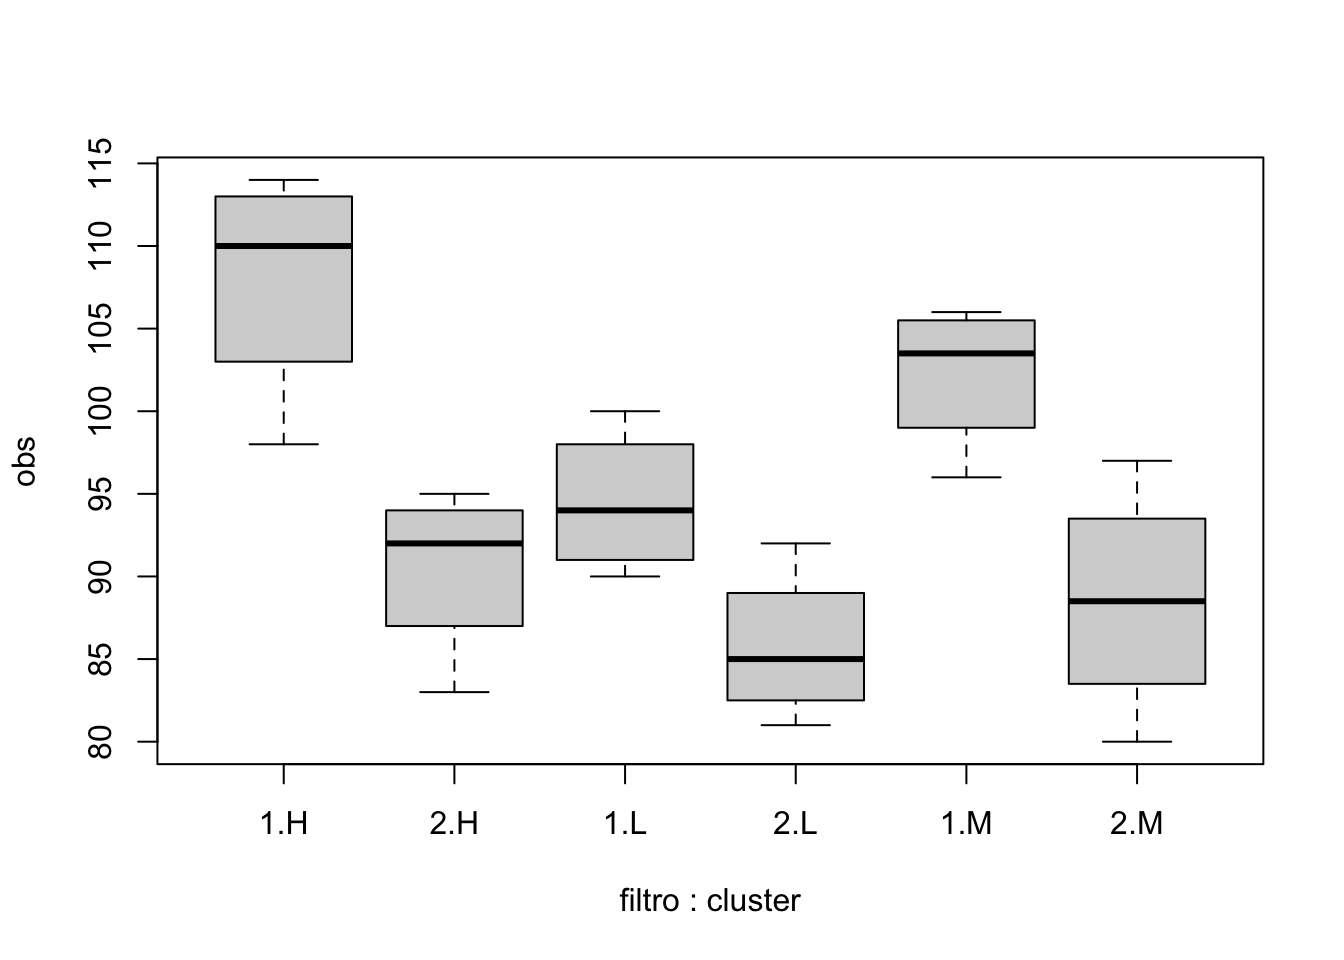
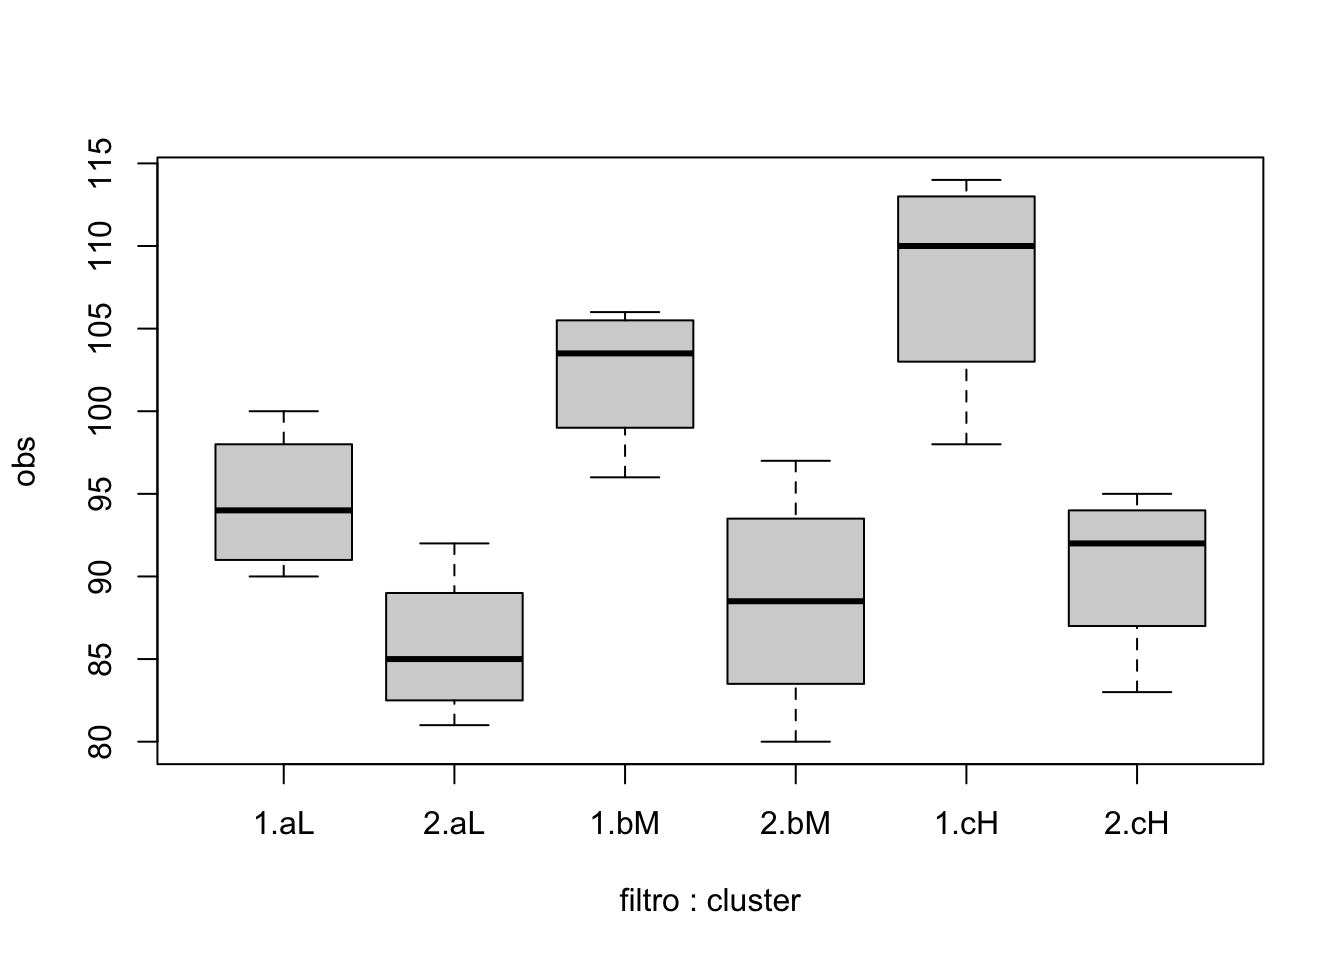
alpha update

diff --git a/DELINEAMENTO/aula2711.html b/DELINEAMENTO/aula2711.html
@@ -119,7 +119,7 @@ pre > code.sourceCode > span > a:first-child::before { text-decoration: underlin
 <span id="cb1-3"><a href="#cb1-3" aria-hidden="true" tabindex="-1"></a>         <span class="dv">114</span>,<span class="dv">93</span>,<span class="dv">112</span>,<span class="dv">91</span>,<span class="dv">108</span>,<span class="dv">95</span>,<span class="dv">98</span>,<span class="dv">83</span>)</span>
 <span id="cb1-4"><a href="#cb1-4" aria-hidden="true" tabindex="-1"></a>operador <span class="ot">&lt;-</span> <span class="fu">as.factor</span>(<span class="fu">rep</span>(<span class="fu">c</span>(<span class="dv">1</span><span class="sc">:</span><span class="dv">4</span>),<span class="at">each=</span><span class="dv">2</span>,<span class="at">times=</span><span class="dv">3</span>))</span>
 <span id="cb1-5"><a href="#cb1-5" aria-hidden="true" tabindex="-1"></a>filtro <span class="ot">&lt;-</span> <span class="fu">as.factor</span>(<span class="fu">rep</span>(<span class="fu">rep</span>(<span class="fu">c</span>(<span class="dv">1</span><span class="sc">:</span><span class="dv">2</span>),<span class="at">times=</span><span class="dv">4</span>),<span class="dv">3</span>))</span>
-<span id="cb1-6"><a href="#cb1-6" aria-hidden="true" tabindex="-1"></a>cluster <span class="ot">&lt;-</span> <span class="fu">as.factor</span>(<span class="fu">rep</span>(<span class="fu">c</span>(<span class="st">'L'</span>,<span class="st">'M'</span>,<span class="st">'H'</span>),<span class="at">each=</span><span class="dv">8</span>))</span>
+<span id="cb1-6"><a href="#cb1-6" aria-hidden="true" tabindex="-1"></a>cluster <span class="ot">&lt;-</span> <span class="fu">as.factor</span>(<span class="fu">rep</span>(<span class="fu">c</span>(<span class="st">'aL'</span>,<span class="st">'bM'</span>,<span class="st">'cH'</span>),<span class="at">each=</span><span class="dv">8</span>))</span>
 <span id="cb1-7"><a href="#cb1-7" aria-hidden="true" tabindex="-1"></a></span>
 <span id="cb1-8"><a href="#cb1-8" aria-hidden="true" tabindex="-1"></a>df<span class="ot">&lt;-</span><span class="fu">data.frame</span>(obs,operador,filtro,cluster)</span>
 <span id="cb1-9"><a href="#cb1-9" aria-hidden="true" tabindex="-1"></a><span class="fu">kable</span>(<span class="fu">head</span>(df))</span></code><button title="Copy to Clipboard" class="code-copy-button"><i class="bi"></i></button></pre></div>
@@ -139,37 +139,37 @@ pre > code.sourceCode > span > a:first-child::before { text-decoration: underlin
 <td style="text-align: right;">90</td>
 <td style="text-align: left;">1</td>
 <td style="text-align: left;">1</td>
-<td style="text-align: left;">L</td>
+<td style="text-align: left;">aL</td>
 </tr>
 <tr class="even">
 <td style="text-align: right;">86</td>
 <td style="text-align: left;">1</td>
 <td style="text-align: left;">2</td>
-<td style="text-align: left;">L</td>
+<td style="text-align: left;">aL</td>
 </tr>
 <tr class="odd">
 <td style="text-align: right;">96</td>
 <td style="text-align: left;">2</td>
 <td style="text-align: left;">1</td>
-<td style="text-align: left;">L</td>
+<td style="text-align: left;">aL</td>
 </tr>
 <tr class="even">
 <td style="text-align: right;">84</td>
 <td style="text-align: left;">2</td>
 <td style="text-align: left;">2</td>
-<td style="text-align: left;">L</td>
+<td style="text-align: left;">aL</td>
 </tr>
 <tr class="odd">
 <td style="text-align: right;">100</td>
 <td style="text-align: left;">3</td>
 <td style="text-align: left;">1</td>
-<td style="text-align: left;">L</td>
+<td style="text-align: left;">aL</td>
 </tr>
 <tr class="even">
 <td style="text-align: right;">92</td>
 <td style="text-align: left;">3</td>
 <td style="text-align: left;">2</td>
-<td style="text-align: left;">L</td>
+<td style="text-align: left;">aL</td>
 </tr>
 </tbody>
 </table>
@@ -377,28 +377,28 @@ $filtro
 2-1 -13.33333 -16.23097 -10.4357 1e-07
 
 $cluster
-      diff         lwr        upr     p adj
-L-H -9.125 -13.4497858 -4.8002142 0.0001766
-M-H -3.875  -8.1997858  0.4497858 0.0824923
-M-L  5.250   0.9252142  9.5747858 0.0169957
+       diff        lwr       upr     p adj
+bM-aL 5.250  0.9252142  9.574786 0.0169957
+cH-aL 9.125  4.8002142 13.449786 0.0001766
+cH-bM 3.875 -0.4497858  8.199786 0.0824923
 
 $`filtro:cluster`
-          diff          lwr       upr     p adj
-2:H-1:H -17.50 -25.15022966  -9.84977 0.0000261
-1:L-1:H -13.50 -21.15022966  -5.84977 0.0004663
-2:L-1:H -22.25 -29.90022966 -14.59977 0.0000013
-1:M-1:H  -5.75 -13.40022966   1.90023 0.2030948
-2:M-1:H -19.50 -27.15022966 -11.84977 0.0000070
-1:L-2:H   4.00  -3.65022966  11.65023 0.5525146
-2:L-2:H  -4.75 -12.40022966   2.90023 0.3776101
-1:M-2:H  11.75   4.09977034  19.40023 0.0018310
-2:M-2:H  -2.00  -9.65022966   5.65023 0.9528718
-2:L-1:L  -8.75 -16.40022966  -1.09977 0.0207715
-1:M-1:L   7.75   0.09977034  15.40023 0.0462271
-2:M-1:L  -6.00 -13.65022966   1.65023 0.1712087
-1:M-2:L  16.50   8.84977034  24.15023 0.0000518
-2:M-2:L   2.75  -4.90022966  10.40023 0.8449384
-2:M-1:M -13.75 -21.40022966  -6.09977 0.0003854</code></pre>
+            diff          lwr      upr     p adj
+2:aL-1:aL  -8.75 -16.40022966 -1.09977 0.0207715
+1:bM-1:aL   7.75   0.09977034 15.40023 0.0462271
+2:bM-1:aL  -6.00 -13.65022966  1.65023 0.1712087
+1:cH-1:aL  13.50   5.84977034 21.15023 0.0004663
+2:cH-1:aL  -4.00 -11.65022966  3.65023 0.5525146
+1:bM-2:aL  16.50   8.84977034 24.15023 0.0000518
+2:bM-2:aL   2.75  -4.90022966 10.40023 0.8449384
+1:cH-2:aL  22.25  14.59977034 29.90023 0.0000013
+2:cH-2:aL   4.75  -2.90022966 12.40023 0.3776101
+2:bM-1:bM -13.75 -21.40022966 -6.09977 0.0003854
+1:cH-1:bM   5.75  -1.90022966 13.40023 0.2030948
+2:cH-1:bM -11.75 -19.40022966 -4.09977 0.0018310
+1:cH-2:bM  19.50  11.84977034 27.15023 0.0000070
+2:cH-2:bM   2.00  -5.65022966  9.65023 0.9528718
+2:cH-1:cH -17.50 -25.15022966 -9.84977 0.0000261</code></pre>
 </div>
 </div>
 </section>
